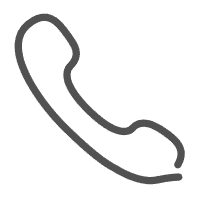
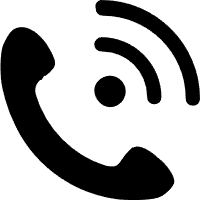
修复UI问题

diff --git a/client/MemoChat-qml/qml/chat/contact/ChatFriendInfoPane.qml b/client/MemoChat-qml/qml/chat/contact/ChatFriendInfoPane.qml
@@ -18,109 +18,166 @@ Rectangle {
     signal voiceChatClicked()
     signal videoChatClicked()
 
+    readonly property string genderIconSource: {
+        if (root.contactSex === 1) return "qrc:/icons/gender_female.png"
+        if (root.contactSex === 0) return "qrc:/icons/gender_male.png"
+        return "qrc:/icons/gender_unknown.png"
+    }
+    readonly property string genderLabelText: {
+        if (root.contactSex === 1) return "女"
+        if (root.contactSex === 0) return "男"
+        return ""
+    }
+
+    readonly property int avatarSide: 72
+    readonly property int actionIcon: 28
+
     ColumnLayout {
         anchors.fill: parent
-        anchors.leftMargin: 120
-        anchors.rightMargin: 120
-        anchors.topMargin: 90
-        anchors.bottomMargin: 80
-        spacing: 26
+        anchors.leftMargin: 24
+        anchors.rightMargin: 24
+        anchors.topMargin: 28
+        anchors.bottomMargin: 24
+        spacing: 0
 
         RowLayout {
             Layout.fillWidth: true
-            spacing: 18
+            Layout.alignment: Qt.AlignTop
+            spacing: 16
 
-            Rectangle {
-                Layout.preferredWidth: 85
-                Layout.preferredHeight: 85
-                radius: 6
-                clip: true
-                color: Qt.rgba(0.73, 0.83, 0.93, 0.54)
+            // 左：头像 + 三按钮（按钮整体在头像正下方、水平居中）
+            ColumnLayout {
+                id: leftBlock
+                spacing: 12
+                Layout.alignment: Qt.AlignTop
 
-                Image {
-                    anchors.fill: parent
-                    source: root.contactIcon
-                    fillMode: Image.PreserveAspectCrop
+                Rectangle {
+                    Layout.alignment: Qt.AlignHCenter
+                    width: root.avatarSide
+                    height: root.avatarSide
+                    radius: 8
+                    clip: true
+                    color: Qt.rgba(0.73, 0.83, 0.93, 0.45)
+
+                    Image {
+                        anchors.fill: parent
+                        source: root.contactIcon
+                        fillMode: Image.PreserveAspectCrop
+                        smooth: true
+                        mipmap: true
+                    }
+                }
+
+                RowLayout {
+                    spacing: 10
+                    Layout.alignment: Qt.AlignHCenter
+
+                    ContactActionIconButton {
+                        iconSize: root.actionIcon
+                        labelText: "发消息"
+                        normalSource: "qrc:/icons/contact_message.png"
+                        hoverSource: "qrc:/icons/contact_message.png"
+                        pressedSource: "qrc:/icons/contact_message.png"
+                        enabled: root.hasContact
+                        onClicked: root.messageChatClicked()
+                    }
+
+                    ContactActionIconButton {
+                        iconSize: root.actionIcon
+                        labelText: "语音"
+                        normalSource: "qrc:/icons/phone.png"
+                        hoverSource: "qrc:/icons/phone.png"
+                        pressedSource: "qrc:/icons/phone.png"
+                        enabled: root.hasContact
+                        onClicked: root.voiceChatClicked()
+                    }
+
+                    ContactActionIconButton {
+                        iconSize: root.actionIcon
+                        labelText: "视频"
+                        normalSource: "qrc:/icons/video.png"
+                        hoverSource: "qrc:/icons/video.png"
+                        pressedSource: "qrc:/icons/video.png"
+                        enabled: root.hasContact
+                        onClicked: root.videoChatClicked()
+                    }
                 }
             }
 
+            // 右：昵称、性别、备注、ID — 与头像顶对齐、左齐
             ColumnLayout {
                 Layout.fillWidth: true
-                spacing: 8
+                Layout.alignment: Qt.AlignTop
+                spacing: 6
 
                 Label {
                     text: root.contactName
-                    color: "#243246"
-                    font.pixelSize: 22
+                    color: "#1e2a3a"
+                    font.pixelSize: 18
                     font.bold: true
+                    elide: Text.ElideRight
+                    Layout.fillWidth: true
                 }
 
                 RowLayout {
                     spacing: 6
-                    Image {
-                        width: 18
-                        height: 18
-                        source: root.contactSex === 1 ? "qrc:/res/female.png" : "qrc:/res/male.png"
-                        fillMode: Image.PreserveAspectFit
+                    Layout.preferredHeight: 18
+
+                    Item {
+                        Layout.preferredWidth: 16
+                        Layout.preferredHeight: 16
+                        Layout.maximumWidth: 16
+                        Layout.maximumHeight: 16
+                        clip: true
+
+                        Image {
+                            anchors.fill: parent
+                            source: root.genderIconSource
+                            fillMode: Image.PreserveAspectFit
+                            smooth: true
+                            mipmap: true
+                        }
+                    }
+
+                    Label {
+                        visible: root.genderLabelText.length > 0
+                        text: root.genderLabelText
+                        color: "#3d4f66"
+                        font.pixelSize: 13
                     }
                 }
 
                 RowLayout {
-                    spacing: 8
+                    spacing: 6
                     Label {
-                        text: "备注:"
-                        color: "#243246"
-                        font.pixelSize: 14
+                        text: "备注"
+                        color: "#5a6b82"
+                        font.pixelSize: 13
                     }
                     Label {
                         text: root.contactBack.length > 0 ? root.contactBack : root.contactNick
-                        color: "#243246"
-                        font.pixelSize: 14
+                        color: "#1e2a3a"
+                        font.pixelSize: 13
+                        elide: Text.ElideRight
+                        Layout.fillWidth: true
                     }
                 }
 
                 RowLayout {
-                    spacing: 8
+                    spacing: 6
                     Label {
-                        text: "ID:"
-                        color: "#243246"
-                        font.pixelSize: 14
+                        text: "ID"
+                        color: "#5a6b82"
+                        font.pixelSize: 13
                     }
                     Label {
                         text: root.contactUserId
-                        color: "#243246"
-                        font.pixelSize: 14
+                        color: "#1e2a3a"
+                        font.pixelSize: 13
+                        elide: Text.ElideRight
+                        Layout.fillWidth: true
                     }
                 }
-            }
-        }
-
-        RowLayout {
-            Layout.alignment: Qt.AlignHCenter
-            spacing: 40
-
-            ContactActionIconButton {
-                normalSource: "qrc:/res/msg_chat_normal.png"
-                hoverSource: "qrc:/res/msg_chat_hover.png"
-                pressedSource: "qrc:/res/msg_chat_press.png"
-                enabled: root.hasContact
-                onClicked: root.messageChatClicked()
-            }
-
-            ContactActionIconButton {
-                normalSource: "qrc:/res/voice_chat_normal.png"
-                hoverSource: "qrc:/res/voice_chat_hover.png"
-                pressedSource: "qrc:/res/voice_chat_press.png"
-                enabled: root.hasContact
-                onClicked: root.voiceChatClicked()
-            }
-
-            ContactActionIconButton {
-                normalSource: "qrc:/res/video_chat_normal.png"
-                hoverSource: "qrc:/res/video_chat_hover.png"
-                pressedSource: "qrc:/res/video_chat_press.png"
-                enabled: root.hasContact
-                onClicked: root.videoChatClicked()
             }
         }
 

diff --git a/client/MemoChat-qml/qml/chat/contact/ContactActionIconButton.qml b/client/MemoChat-qml/qml/chat/contact/ContactActionIconButton.qml
@@ -3,8 +3,13 @@ import QtQuick.Controls 2.15
 
 Item {
     id: root
-    implicitWidth: 50
-    implicitHeight: 50
+    // 圆形点击区 = iconSize；有文案时总高 = 圆 + 标签行
+    implicitWidth: labelText.length > 0 ? Math.max(iconSize + 8, 52) : iconSize + 8
+    implicitHeight: labelText.length > 0 ? (iconSize + 8) + labelRowHeight : iconSize + 8
+
+    property int iconSize: 32
+    property int labelRowHeight: 16
+    property string labelText: ""
 
     property string normalSource: ""
     property string hoverSource: ""
@@ -35,13 +40,17 @@ Item {
     }
 
     Rectangle {
-        anchors.fill: parent
+        id: hitDisk
+        anchors.horizontalCenter: parent.horizontalCenter
+        anchors.top: parent.top
+        width: root.iconSize + 8
+        height: root.iconSize + 8
         radius: width / 2
         color: !root.enabled ? Qt.rgba(1, 1, 1, 0.08)
                              : mouse.pressed ? Qt.rgba(0.55, 0.72, 0.94, 0.34)
                                              : mouse.containsMouse ? Qt.rgba(0.55, 0.72, 0.94, 0.24)
-                                                                  : Qt.rgba(1, 1, 1, 0.16)
-        border.color: Qt.rgba(1, 1, 1, 0.40)
+                                                                  : Qt.rgba(1, 1, 1, 0.22)
+        border.color: Qt.rgba(1, 1, 1, 0.38)
 
         Behavior on color {
             ColorAnimation {
@@ -49,34 +58,46 @@ Item {
                 easing.type: Easing.OutQuad
             }
         }
-    }
 
-    Image {
-        anchors.centerIn: parent
-        width: parent.width - 14
-        height: parent.height - 14
-        fillMode: Image.PreserveAspectFit
-        source: {
-            if (!root.enabled) {
+        Image {
+            anchors.centerIn: parent
+            width: Math.max(12, root.iconSize - 6)
+            height: Math.max(12, root.iconSize - 6)
+            fillMode: Image.PreserveAspectFit
+            smooth: true
+            mipmap: true
+            source: {
+                if (!root.enabled) {
+                    return root.normalSource
+                }
+                if (mouse.pressed && root.pressedSource.length > 0) {
+                    return root.pressedSource
+                }
+                if (mouse.containsMouse && root.hoverSource.length > 0) {
+                    return root.hoverSource
+                }
                 return root.normalSource
             }
-            if (mouse.pressed && root.pressedSource.length > 0) {
-                return root.pressedSource
-            }
-            if (mouse.containsMouse && root.hoverSource.length > 0) {
-                return root.hoverSource
-            }
-            return root.normalSource
+            opacity: root.enabled ? 1.0 : 0.45
         }
-        opacity: root.enabled ? 1.0 : 0.45
     }
 
     MouseArea {
         id: mouse
-        anchors.fill: parent
+        anchors.fill: hitDisk
         enabled: root.enabled
         hoverEnabled: true
         cursorShape: root.enabled ? Qt.PointingHandCursor : Qt.ArrowCursor
         onClicked: root.clicked()
+    }
+
+    Label {
+        anchors.horizontalCenter: parent.horizontalCenter
+        anchors.top: hitDisk.bottom
+        anchors.topMargin: 4
+        text: root.labelText
+        color: "#3d4f66"
+        font.pixelSize: 11
+        visible: root.labelText.length > 0
     }
 }